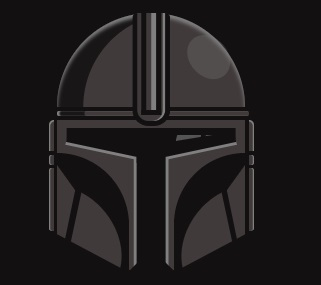
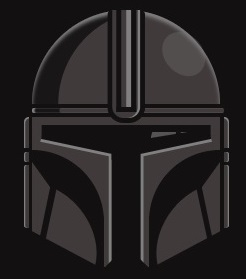
Updating in site-"Grogu Mandalore Toggle "
Update script and add git link supporter(Спасибо,Сань) and update icon

diff --git a/index.html b/index.html
@@ -193,7 +193,7 @@
                 <p class="album_desc">Lorem ipsum dolor sit amet consectetur adipisicing elit. Distinctio explicabo numquam veritatis veniam ab magni.</p>
             </div>
         </div>
-        <!-- <div class="album animate__animated animate__swing">
+        <div class="album animate__animated animate__swing">
             <a href="sites/site-13/Grogu-Mandalorian-Toggle/index.html">
                 <img class="album_artwork" src="sites/site-13/Grogu-Mandalorian-Toggle/icon.jpg" alt="img">
             </a>
@@ -203,10 +203,10 @@
                         Grougu Mandalorian Toggle
                     </h2>
                 </a>
-                <p class="album_artist">Vladimir Saenko</p>
+                <p class="album_artist">Vladimir Saenko and AlexanderFox777</p>
                 <p class="album_desc">Переключатель в виде Грогу(Малыша Йоды), показывающий шлем Мандалорца(Мандо)</p>
             </div>
-        </div> -->
+        </div>
         <div class="album animate__animated animate__swing">
             <a href="sites/site-14/Audio-Player-v1/index.html">
                 <img class="album_artwork" src="sites/site-14/Audio-Player-v1/img-portfolio.jpg" alt="img">

diff --git a/sites/site-13/Grogu-Mandalorian-Toggle/script.js b/sites/site-13/Grogu-Mandalorian-Toggle/script.js
@@ -1,13 +1,24 @@
 
 "use strict"
 
-let mandalorian = document.getElementById("mando");
-// let yoda = document.getElementById("yoda");
+let mando = document.getElementById("mando");
 let container = document.getElementById("container");
 let toggle = document.getElementById("slider");
+let gitSupp = document.getElementById("gitSupp");
+let isActive = false;
 
 function activateMando() {
-    mandalorian.style.visibility = 'visible';
-    container.style.background = '#121011';
-    toggle.style.backgroundImage = "linear-gradient(#000000,#5a5252,#585552, #6d6565, #000000)";
+    if(!isActive){
+        mando.style.visibility = 'visible';
+        gitSupp.style.visibility = 'visible';
+        container.style.background = '#121011';
+        toggle.style.backgroundImage = "linear-gradient(#000000,#5a5252,#585552, #6d6565, #000000)";
+    }
+    else if(isActive){
+        mando.style.visibility = 'hidden';
+        gitSupp.style.visibility = 'hidden';
+        container.style.background = '#5ec4e0';
+        toggle.style.backgroundImage = "linear-gradient( #aefaa7, #00ff22, #1eff00, #33ff00, #aefda7 )";
+    }
+    isActive = !isActive;  
 }

diff --git a/sites/site-13/Grogu-Mandalorian-Toggle/css/style.css b/sites/site-13/Grogu-Mandalorian-Toggle/css/style.css
@@ -22,5 +22,32 @@
 .mandalorian {
     visibility: hidden;
     position: absolute;
-    top: 20%;
+    top: 15%;
+}
+
+.gitSupp-link {
+    visibility: hidden;
+    color: white;
+    text-align: center;
+    font-size: 27px;
+    margin-top: 10%;
+}
+
+.gitSupp-link a {
+    color: blue;
+    text-decoration: none;
+}
+
+.gitSupp-link a:checked {
+    color: blueviolet;
+}
+
+.gitSupp-link a:hover {
+    text-decoration: underline;
+}
+
+.gitSupp-link a img {
+    width: 50px;
+    height: 50px;
+    border-radius: 50%;
 }

diff --git a/sites/site-13/Grogu-Mandalorian-Toggle/index.html b/sites/site-13/Grogu-Mandalorian-Toggle/index.html
@@ -39,6 +39,12 @@
                 </div>
               </div>
         </div>
+        <span id="gitSupp" class="gitSupp-link">Supported by
+          <a href="https://github.com/AlexanderFox777">
+            AlexanderFox777
+            <img src="gitimg.png">
+          </a>
+        </span>
         <label class="switch">
             <input id="yoda" onchange="activateMando()" class="toggle" type="checkbox">
             <span id="slider" class="slider">

diff --git a/sites/site-13/Grogu-Mandalorian-Toggle/css/media.css b/sites/site-13/Grogu-Mandalorian-Toggle/css/media.css
@@ -23,4 +23,16 @@
     input:checked + .slider .crib {
         transform: translateX(200px);
     }
+
+    .gitSupp-link {
+        margin-top: 50%;
+        flex-wrap: wrap;
+        font-size: 17px;
+        letter-spacing: -0.5px;
+    }
+
+    .gitSupp-link a img {
+        width: 30px;
+        height: 30px;
+    }
 }

diff --git a/sites/site-13/Grogu-Mandalorian-Toggle/css/grogu.css b/sites/site-13/Grogu-Mandalorian-Toggle/css/grogu.css
@@ -173,7 +173,7 @@ input:checked + .slider .crib #Grogu {
 }
 
 .cls-6 {
-  fill: #efdfd0;
+  fill: #dbd2ca;
 }
 
 .cls-7,
